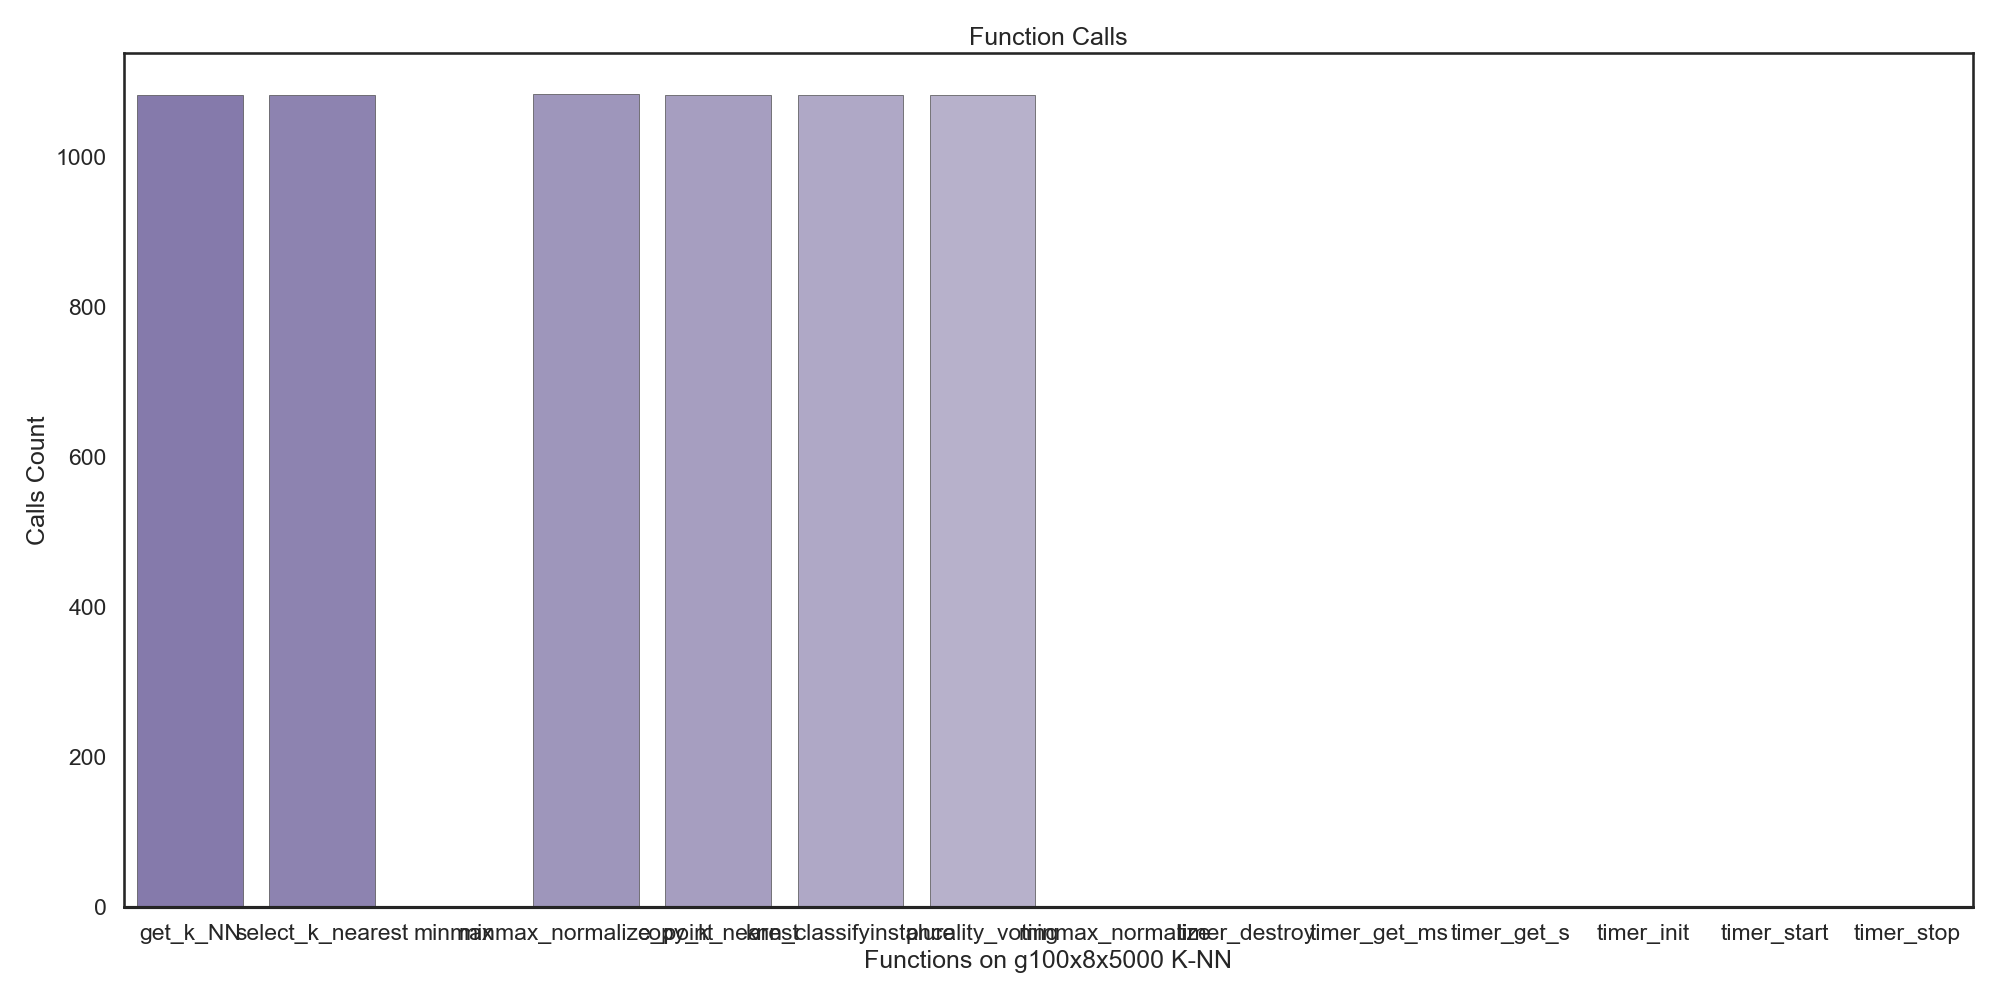
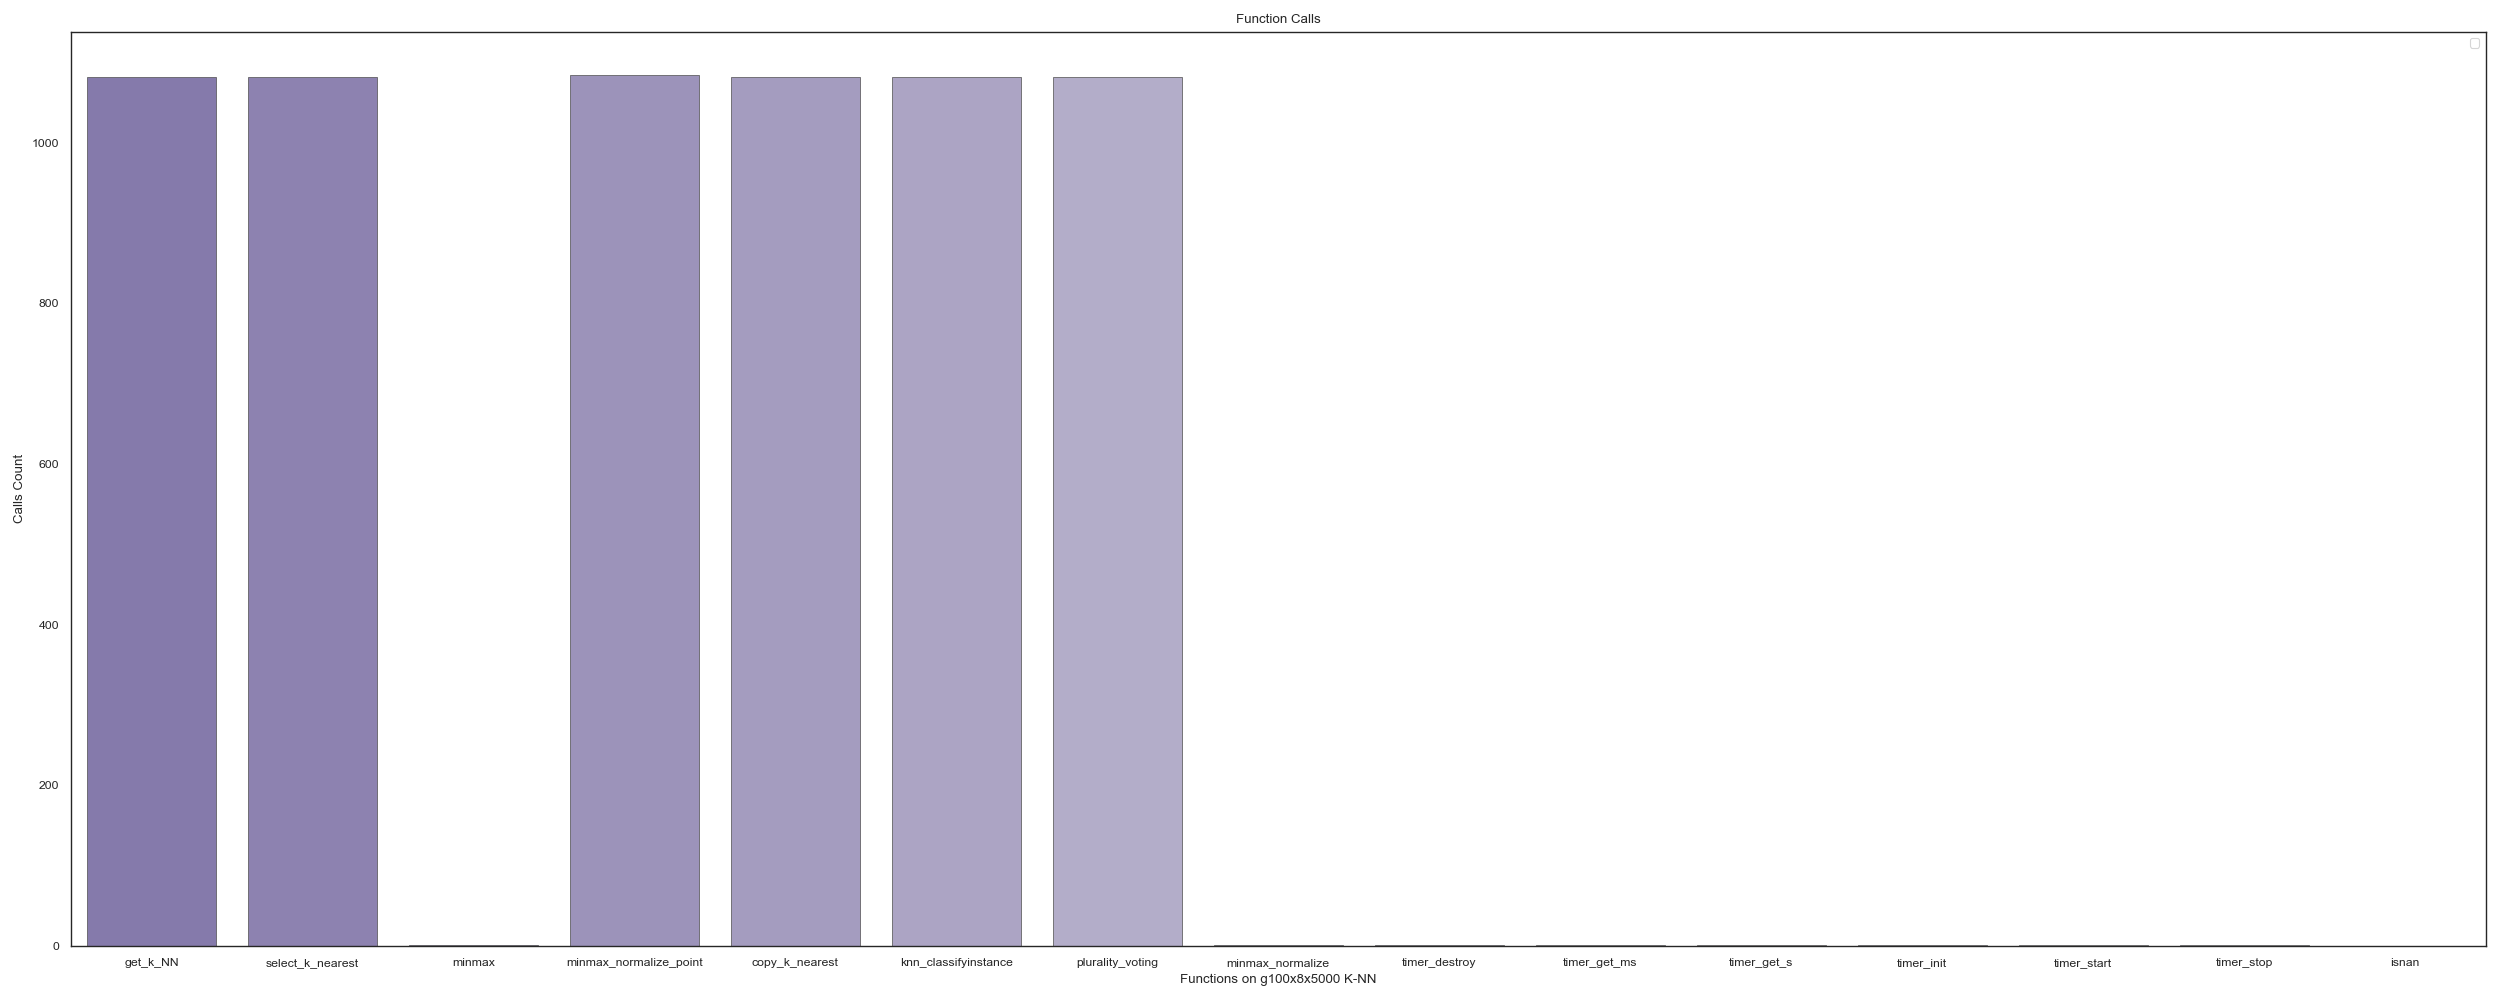
Plots

Changed region(s): [[0.0, 0.0, 1.0, 0.992]]

diff --git a/project/knn-ver1.3a/benchmark.py b/project/knn-ver1.3a/benchmark.py
@@ -12,6 +12,7 @@ def runCompiler(name):
         capture_output=True,  
         text=True             
     )
+    print(result)
 
 def runGeneric(command):
     result = subprocess.run(
@@ -51,7 +52,7 @@ def ExecuteAndParse(d, numIterations, scenario):
 
                 if not stats:
                     os.remove("gmon.out")
-                    times.append(prev_line[1])
+                    times.append(float(prev_line[1]))
                     break
                 
                 if stats[0] == 'time':
@@ -88,28 +89,31 @@ def ImportData(scenario):
     runGeneric(f"cp 'scenario-{scenario}/params.h' 'src/params.h'")
 
 
-def DrawGraph(data, scenario):
+def DrawGraph(data, scenario, lat):
 
-    f, ax1 = plt.subplots(figsize=(20, 10))
+    f, ax1 = plt.subplots(figsize=(25, 10))
     df = pd.DataFrame(data)
-    sns.set_theme(style="white", context="talk")
+    sns.set_theme(style="white", context="paper")
     sns.barplot(df,x='name', y='time', hue='name', palette="light:m_r", edgecolor=".3", linewidth=.5, ax=ax1)
     
-    ax1.axhline(0, color="k", clip_on=False)
+    ax1.axhline(y=lat, color='red', linestyle='--', linewidth=1.5, label=f'Average Total Latency: {lat}')
+
+    ax1.set_ylim(0, 1.2)
     ax1.set_ylabel('Latency (s)')
     ax1.set_xlabel(f'Functions on {scenario} K-NN')
+    plt.legend()
     plt.title('Function Latencies')
     plt.tight_layout(h_pad=2)
 
     plt.savefig(f'profiling/graphs/plot_latency_{scenario}.png')
 
-    f, ax2 = plt.subplots(figsize=(20, 10))
-    sns.set_theme(style="white", context="talk")
+    f, ax2 = plt.subplots(figsize=(25, 10))
+    sns.set_theme(style="white", context="paper")
     sns.barplot(df,x='name', y='calls', hue='name', palette="light:m_r", edgecolor=".3", linewidth=.5, ax=ax2)
     
-    ax2.axhline(0, color="k", clip_on=False)
     ax2.set_ylabel('Calls Count')
     ax2.set_xlabel(f'Functions on {scenario} K-NN')
+    plt.legend()
     plt.title('Function Calls')
     plt.tight_layout(h_pad=2)
 
@@ -122,7 +126,7 @@ def DrawGraphFinal(data):
     sns.set_theme(style="white", context="talk")
     sns.barplot(df,x='scenario', y='time', hue='scenario', palette="light:m_r", edgecolor=".3", linewidth=.5, ax=ax1)
     
-    ax1.axhline(0, color="k", clip_on=False)
+    #ax1.axhline(0, color="k", clip_on=False)
     ax1.set_ylabel('Latency (s)')
     ax1.set_xlabel(f'All Scenarios K-NN')
     plt.title('Function Latencies')
@@ -185,7 +189,7 @@ def CompileAndRun(numIterations):
         total_time = ExecuteAndParse(d, numIterations, "k3")
         print("Done!")
         print("Produing graphs... ")
-        DrawGraph(d, "k3")
+        DrawGraph(d, "k3", sum(total_time)/len(total_time))
         print("Done!\n")
 
         for i in range(len(total_time)):
@@ -209,7 +213,7 @@ def CompileAndRun(numIterations):
         total_time = ExecuteAndParse(d, numIterations, "k20")
         print("Done!")
         print("Produing graphs... ")
-        DrawGraph(d, "k20")
+        DrawGraph(d, "k20", sum(total_time)/len(total_time))
         print("Done!\n")
 
         for i in range(len(total_time)):
@@ -233,7 +237,7 @@ def CompileAndRun(numIterations):
         total_time = ExecuteAndParse(d, numIterations, "g100x8x5000")
         print("Done!")
         print("Produing graphs... ")
-        DrawGraph(d, "g100x8x5000")
+        DrawGraph(d, "g100x8x5000", sum(total_time)/len(total_time))
         print("Done!\n")
 
         for i in range(len(total_time)):
@@ -257,7 +261,7 @@ def CompileAndRun(numIterations):
         total_time = ExecuteAndParse(d, numIterations, "g100x8x1000")
         print("Done!")
         print("Produing graphs... ")
-        DrawGraph(d, "g100x8x1000")
+        DrawGraph(d, "g100x8x1000", sum(total_time)/len(total_time))
         print("Done!\n")
 
         for i in range(len(total_time)):
